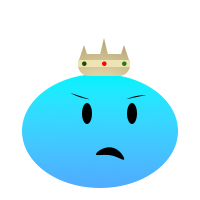
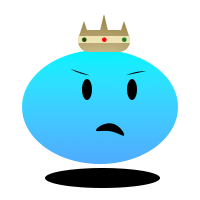
ボスのダメージ演出追加

Changed region(s): [[0.09, 0.06, 0.9, 0.96], [0.48, 0.6, 0.63, 0.69]]

diff --git a/scene/GameScene.cpp b/scene/GameScene.cpp
@@ -24,12 +24,17 @@ void GameScene::Initialize() {
 	//ビリヤード台
 	billiardstable_ = std::make_unique<Billiardstable>();
 	billiardstable_->Initialize();
+
+	//ボス
+	boss_ = std::make_unique<Boss>();
+	boss_->Initialize(input_);
 }
 
 void GameScene::Update() {
 	player_->Update();
 	ball_->Update();
 	ball_->CheckPlayerCollision(*player_);
+	boss_->Update();
 }
 
 void GameScene::Draw() {
@@ -73,6 +78,7 @@ void GameScene::Draw() {
 	/// </summary>
 	player_->Draw();
 	ball_->Draw();
+	boss_->Draw();
 
 	// デバッグテキストの描画
 	debugText_->DrawAll(commandList);

diff --git a/scene/GameScene.h b/scene/GameScene.h
@@ -11,6 +11,7 @@
 #include "WorldTransform.h"
 #include "Billiardstable.h"
 #include "Ball.h"
+#include "Boss.h"
 
 
 /// <summary>
@@ -52,6 +53,7 @@ class GameScene {
 
 	std::unique_ptr<Player> player_;
 	std::unique_ptr<Billiardstable> billiardstable_;
+	std::unique_ptr<Boss> boss_;
 
 	Ball* ball_ = nullptr;
 	uint32_t textureHandle_ = 0;
